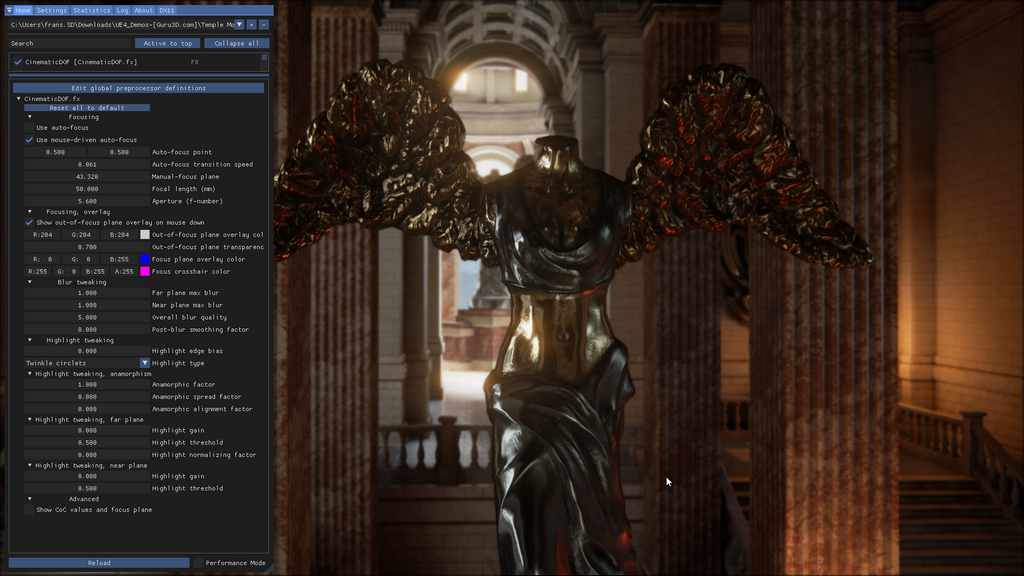
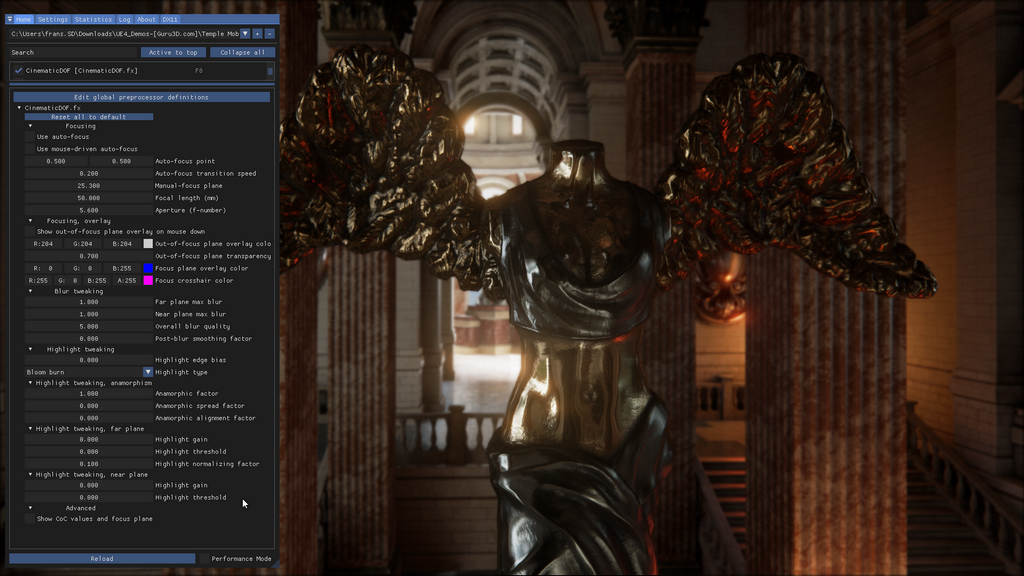
UPdated images in cinematicdofguide

diff --git a/markdown/ReshadeGuides/Shaders/cinematicdof.md b/markdown/ReshadeGuides/Shaders/cinematicdof.md
@@ -13,6 +13,10 @@ All settings in the Cinematic DOF shader are drag sliders, which means you can c
 left or right to resp. decrease and increase the value. By holding `shift` while dragging the increase/decrease will go faster. When holding
 `ctrl` while clicking gives you the ability to type in the value you want. 
 
+@alert info
+The screenshots below are taken with Cinematic DOF v1.1.10, released on May 25th, 2019.
+@end
+
 ## Focusing
 One of the most important parts of a depth of field shader is to focus on the right element in the 3D world. By default the 
 shader has its focusing mode set to *auto-focus* and *mouse-driven auto-focus*. This means that if you mouse the mouse over the scene, the 
@@ -51,12 +55,12 @@ in general it means the lower the value, the more open the lens will be, so the 
 get in out-of-focus areas. For the Cinematic DOF shader, the two parameters are basically doing the same thing, as the shader itself doesn't control the amount of
 light coming into the camera. 
 
-So what values should you pick? To get started, let's look at the defaults the shader comes with: 120mm for Focal length and 2.8 for aperture. If you'd use
-a 120mm lens on a modern camera with aperture 2.8 you'd get nice portrait shots with a nice shallow depth of field and nice background blur. 
+So what values should you pick? To get started, let's look at the defaults the shader comes with: 100mm for Focal length and 2.8 for aperture. If you'd use
+a 100mm lens on a modern camera with aperture 2.8 you'd get nice portrait shots with a nice shallow depth of field and nice background blur. 
 
 Here's the default setting in action:
 
-![120mm/2.8](../../Images/ShaderGuides/CinematicDOF/focus_120mm_2_8.jpg "120mm with 2.8 aperture"){.shadowed}
+![100mm/2.8](../../Images/ShaderGuides/CinematicDOF/focus_100mm_2_8.jpg "100mm with 2.8 aperture"){.shadowed}
 
 Look careful at the blurring on the wings of the statue, and the thick blurring in the background. 
 
@@ -67,9 +71,9 @@ If we change the lens and aperture to the values of a lens that's often sold wit
 You can clearly see there's way less blur in the background. The focus is still on the statue, camera is still on the same distance. Also the blurring on the wings is gone, 
 they're cleanly in focus.
 
-Here's the same scene with a lens of 120mm and aperture of 5.6:
+Here's the same scene with a lens of 100mm and aperture of 5.6:
 
-![120mm/5.6](../../Images/ShaderGuides/CinematicDOF/focus_120mm_5_6.jpg "120mm with 5.6 aperture"){.shadowed}
+![100mm/5.6](../../Images/ShaderGuides/CinematicDOF/focus_100mm_5_6.jpg "100mm with 5.6 aperture"){.shadowed}
 
 And with a 50mm lens with aperture 2.8:
 
@@ -80,14 +84,14 @@ two, either lens length *or* aperture, but not both. To get started, leave the a
 and a higher value for more blur. 
 
 @alert Tip
-Moving the camera closer to the focused element also makes the blur be more prominent. 
+Moving the camera closer to the focused element also makes the blur be more prominent (and you have to change the manual focus plane if you're using manual focusing)
 @end
 
 ## Blur tweaking
 After you've set up the focus, the lens length and aperture, you can now tweak the blur of the near plane (in front of what's in focus) and the far plane (what's behind
 what's in focus). Additionally you can change the quality of the blur and apply a post-blur smoothing factor to iron out any undersampling artifacts you might see. 
 
-Let's see what these look like. We'll use the defaults of 120mm and aperture of 2.8
+Let's see what these look like. We'll use the defaults of 100mm and aperture of 2.8
 
 ### Far plane blur
 First we have *Far plane max blur*. Here you can tweak the blur strength given by the lens length + aperture + distance combination. A value of 1.0 gives the 
@@ -103,13 +107,13 @@ If we change the blur to a lower value, e.g. 0.5, we'll get the result below:
 ![far plane blur 0.5](../../Images/ShaderGuides/CinematicDOF/blur_fp_0_5.jpg "Far plane blur with blur set to 0.5"){.shadowed}
 
 This might look the same as using a shorter lens, like 50mm, but that's not the case: with a 50mm lens the blur starts later, deeper into the 3D world, farther away from 
-the focus plane. With 120mm the blur starts already on the wings of the statue. Because the blur factor is set to a lower value, the blur is very subtle. 
+the focus plane. With 100mm the blur starts already on the wings of the statue. Because the blur factor is set to a lower value, the blur is very subtle. 
 
 ### Near plane blur
 Additionally you can tweak the blur for the *near plane*. The near plane is blurred with a soft edge to make it realistic. The same applies to the near plane blur as 
 for the far plane blur: setting it to 0 switches it off, setting it to a high value makes the blur extremely prominent. 
 
-Below an example shot where the focus is on the second pilar, using the default blur factor of 1.0 for both near and far plane.
+Below an example shot where the focus is on the statue and far blur has been disabled, using the default near plane blur factor of 1.0.
 
 ![near plane blur 1.0](../../Images/ShaderGuides/CinematicDOF/blur_np_1_0.jpg "Near plane blur with blur set to 1.0"){.shadowed}
 
@@ -152,20 +156,22 @@ than it is on the edges. To do this, increase the **Highlight edge bias** to a v
 ![Highlight edge bias 0.5](../../Images/ShaderGuides/CinematicDOF/ht_edgebias.jpg "Highlight edge bias of 0.5"){.shadowed}
 
 ### Highlight type
-There are different types of highlights. The default is *Twinkle circles* which gives the nice round colored highlight bokehs. However Cinematic DOF has another
-highlight type, Bloom burn. It can give a more bloomy highlight without the typical round bokehs. An example of this is below.
+There are different types of highlights: Bloom burn and Twinkle circlets. The latter gives more prominent round colored highlight bokehs, Bloom burn keeps things more subtle.
+An example of each is below.
 
-![Bloom blur](../../Images/ShaderGuides/CinematicDOF/ht_bloomblur.jpg "Bloom blur highlight type"){.shadowed}
+![Bloom blur](../../Images/ShaderGuides/CinematicDOF/ht_bloomblur.jpg "Bloom burn highlight type"){.shadowed}
+
+![Twinkle circlets](../../Images/ShaderGuides/CinematicDOF/ht_twinklecirclets.jpg "Twinkle circlets highlight type"){.shadowed}
 
 ### Highlight gain
-Both near and far plane have their own **Highlight gain**. This value controls how much of a boost the highlights get. Below you'll see a shot of
-a scene in another Unreal Engine demo, SoulSlum, where there are a lot of background lights, and by default they still look quite weak:
+Both near and far plane have their own **Highlight gain**. This value controls how much of a boost the highlights get. Below you'll see a shot with some 
+far and near highlights, and by default they still look quite weak:
 
 ![Highlight gain off](../../Images/ShaderGuides/CinematicDOF/ht_gain_off.jpg "Highlight gain of 0.0"){.shadowed}
 
-However if we crank the Highlight gain of the far plane up to 1.0, we get a totally different scene:
+However if we crank the Highlight gain of the near and far plane up to 0.5, we get a totally different scene:
 
-![Highlight gain 1.0](../../Images/ShaderGuides/CinematicDOF/ht_gain_1_0.jpg "Highlight gain of 1.0"){.shadowed}
+![Highlight gain 0.5](../../Images/ShaderGuides/CinematicDOF/ht_gain_0_5.jpg "Highlight gain of 0.5"){.shadowed}
 
 This might be a bit much however. There's another control you can use in tandem with the highlight gain, which is described in the next paragraph
 
@@ -174,12 +180,12 @@ This might be a bit much however. There's another control you can use in tandem 
 By default all highlights are boosted when you crank up the highlight gain of either near or far plane. This might be what you want, but it likely is a bit much. Also
 in case of TAA/SMAA artifacts it might be you get highlight edges on your focused element because the framebuffer doesn't perfectly align with the depth buffer. 
 
-To tell the shader to only crank up the highlights above a certain brightness, you can use the **Highlight treshold** for both near plane and far plane. If it's set
-to e.g. 0.3, all pixels which have a luminosity of 0.3 (0.0 being black, 1.0 being bright white) will be boosted. Below is an example shot with the same gain as above
-but now also paired with a threshold of 0.7. All pixels which are brighter than 0.7 will get the gain applied, all other pixels are left alone. A lot less highlights are
-visible, only the ones which are very bright.
+To tell the shader to only crank up the highlights above a certain luminosity, you can use the **Highlight treshold** for both near plane and far plane. If it's set
+to e.g. 0.3, all pixels which have a luminosity of 0.3 or higher (0.0 being black, 1.0 being bright white) will be boosted. Below is an example shot with the same gain as above
+but now also paired with a threshold of 0.5. All pixels which are brighter than 0.5 will get the gain applied, all other pixels are left alone. The highlights
+in front of the fire in the back are dimmed a bit, only the brightest ones are visible.
 
-![Highlight threshold](../../Images/ShaderGuides/CinematicDOF/ht_threshold.jpg "Highlight threshold of 0.7 with gain of 1.0"){.shadowed}
+![Highlight threshold](../../Images/ShaderGuides/CinematicDOF/ht_threshold.jpg "Highlight threshold of 0.5 with gain of 0.8"){.shadowed}
 
 ### Highlight normalization for far plane
 The way the highlights are calculated depends on luminosity and the blur factor. This can lead to a loss in *light energy* around the edges of a bokeh highlight as 
@@ -188,7 +194,7 @@ shader comes with a normalization factor, which can correct this.
 
 In the shot below we use little gain, a small threshold value and a normalization factor. This leads to nice circular bokehs in the far plane. 
 
-![Highlight normalization](../../Images/ShaderGuides/CinematicDOF/ht_normalized.jpg "Highlight normalization of 0.5 with gain of 0.15 and threshold of 0.18"){.shadowed}
+![Highlight normalization](../../Images/ShaderGuides/CinematicDOF/ht_normalized.jpg "Highlight normalization of 0.26"){.shadowed}
 
 The near plane doesn't have normalization as it doesn't need it: the blur system of the near plane works differently so highlights don't need normalization.
 
